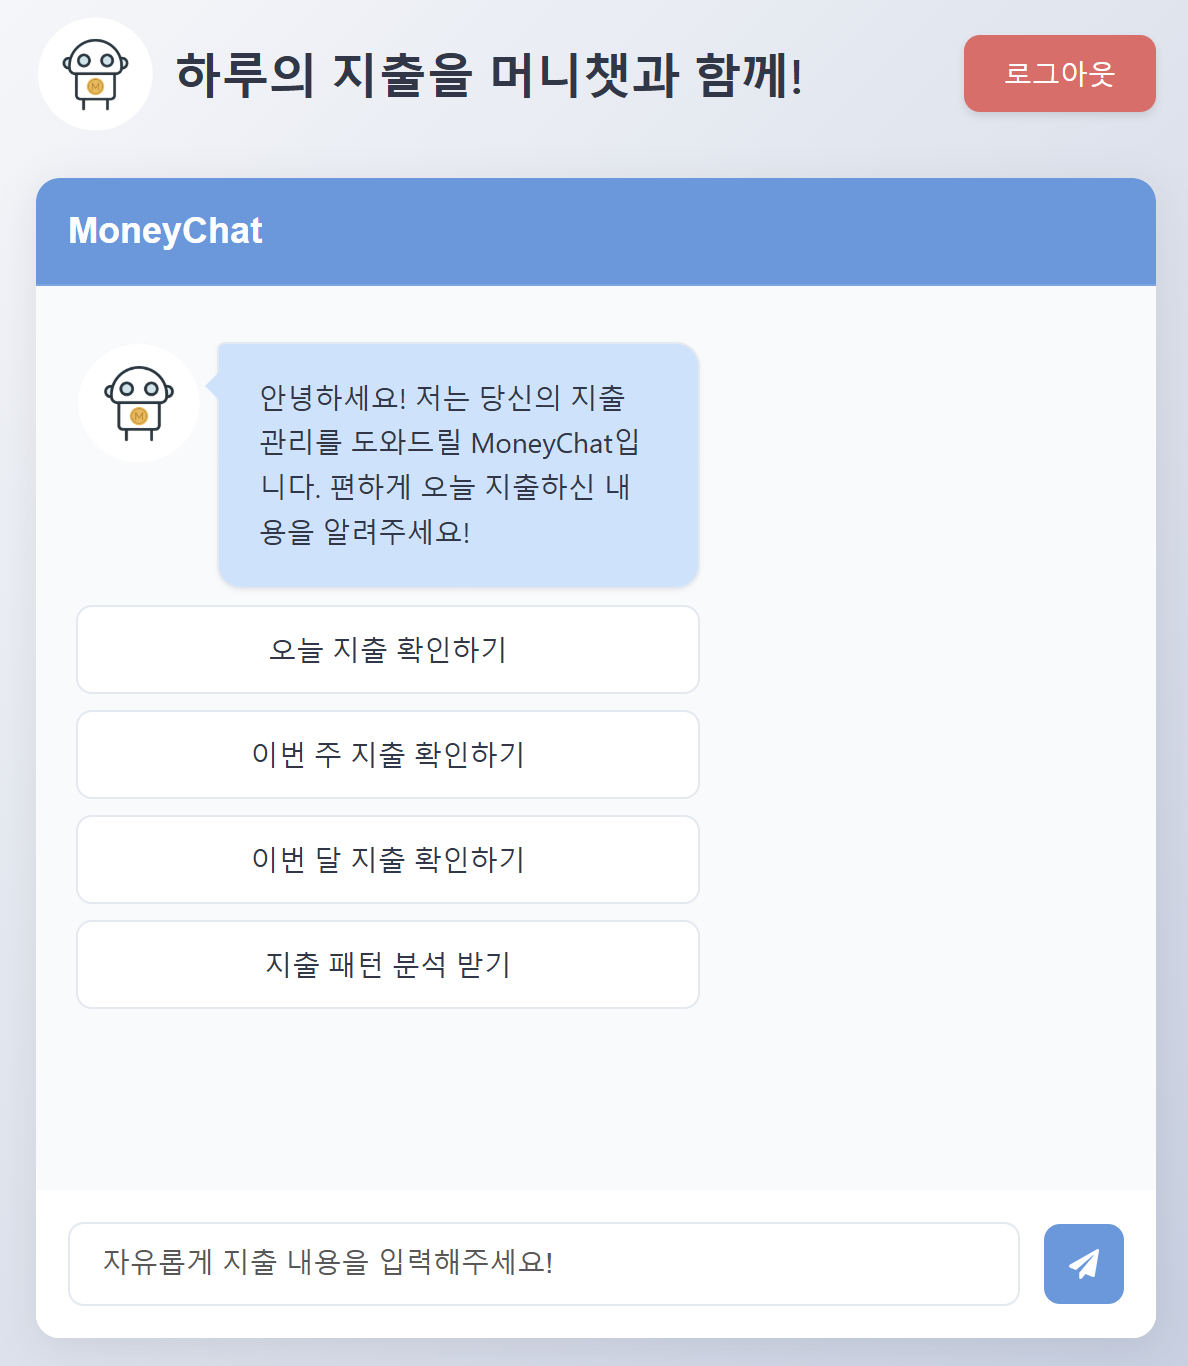
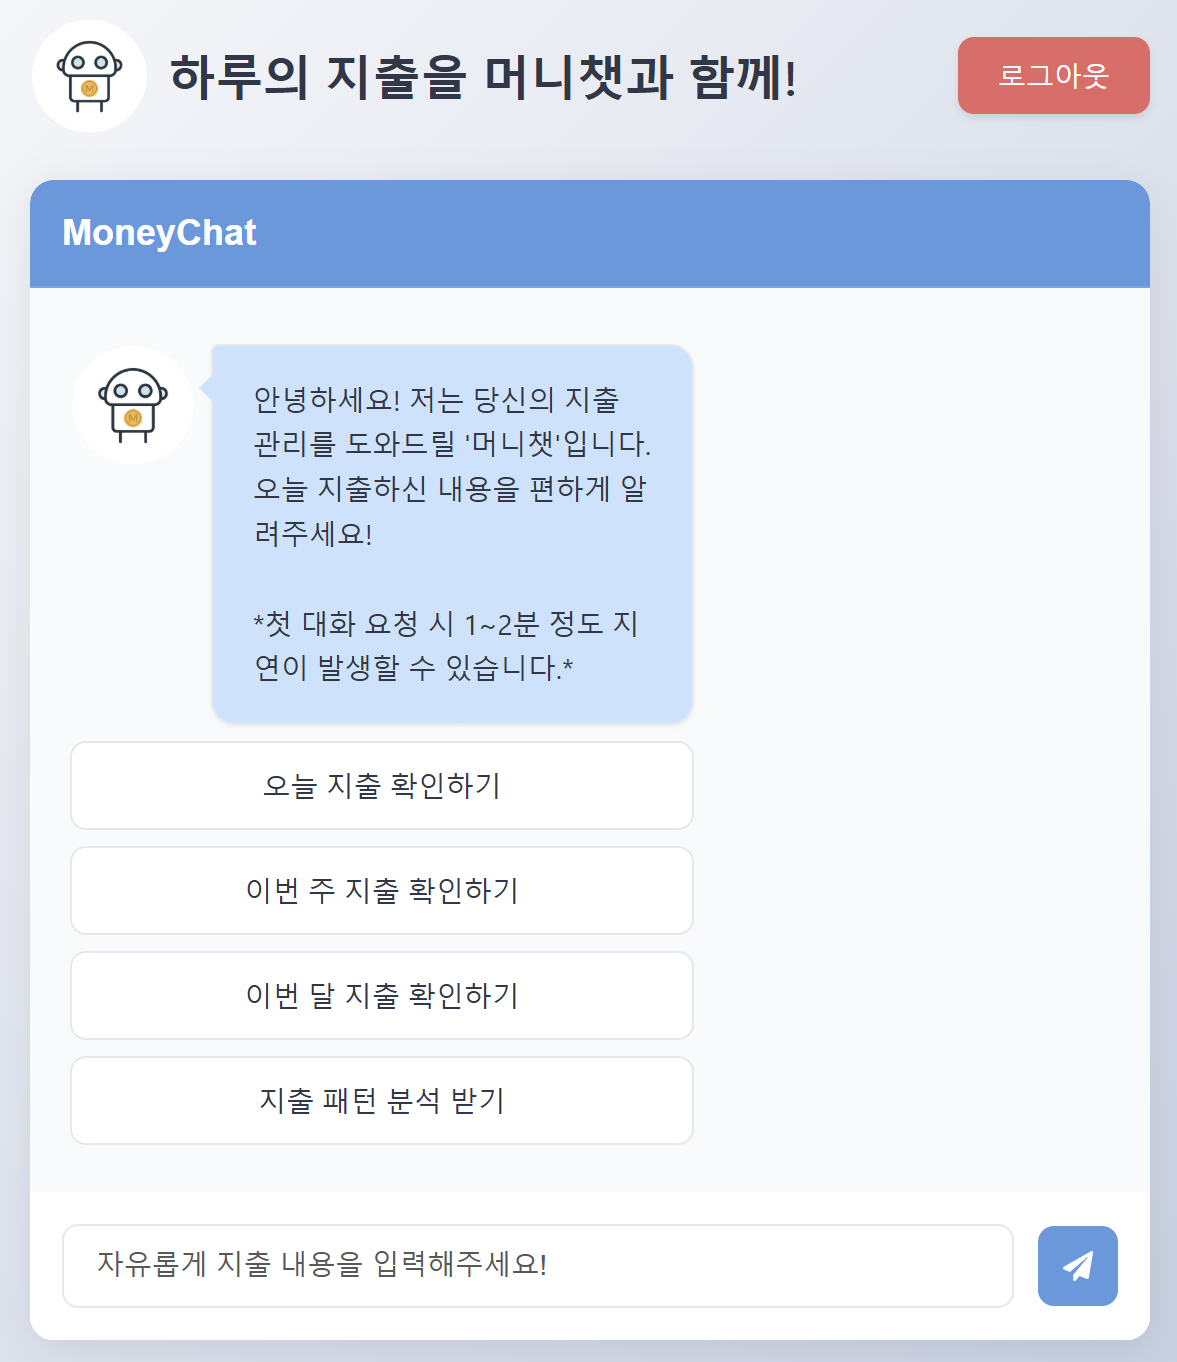
v1.0.1

diff --git a/moneychat-frontend/src/chatbot/config.js b/moneychat-frontend/src/chatbot/config.js
@@ -5,7 +5,7 @@ import LoadingSpinner from '../components/LoadingSpinner';
 const config = {
   initialMessages: [
     createChatBotMessage(
-      "안녕하세요! 저는 당신의 지출 관리를 도와드릴 '머니챗'입니다. 오늘 지출하신 내용을 편하게 알려주세요!",
+      "안녕하세요! 저는 당신의 지출 관리를 도와드릴 '머니챗'입니다. 오늘 지출하신 내용을 편하게 알려주세요! \n\n*첫 대화 요청 시 1~2분 정도 지연이 발생할 수 있습니다.*",
       {
         widget: "options",
       }
